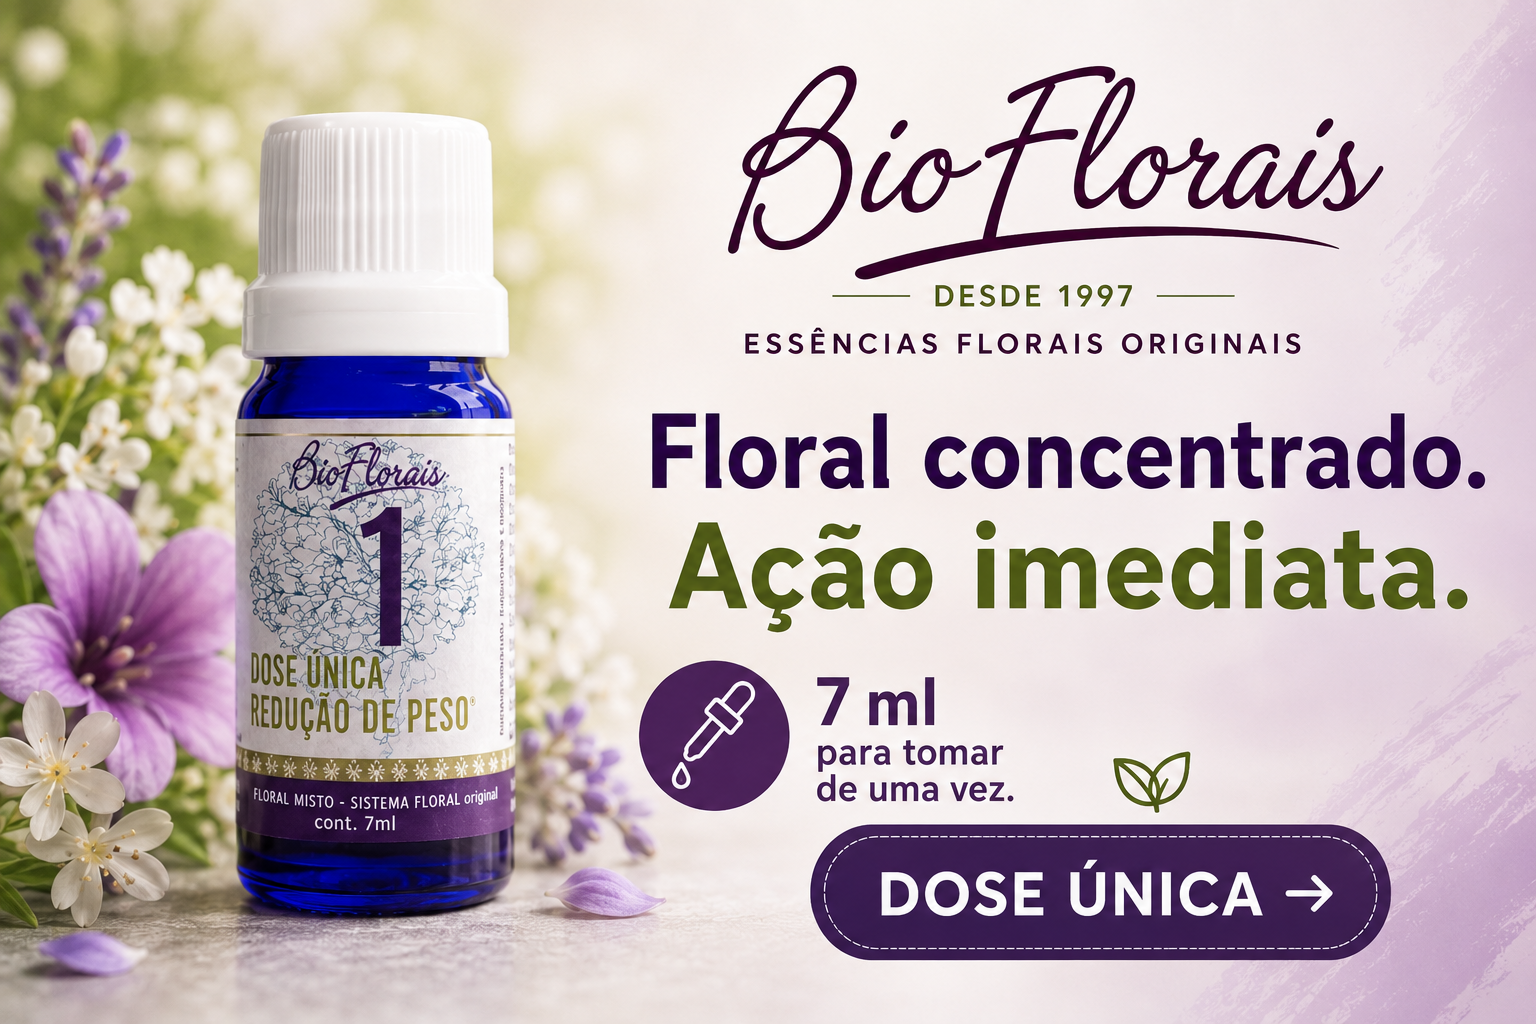
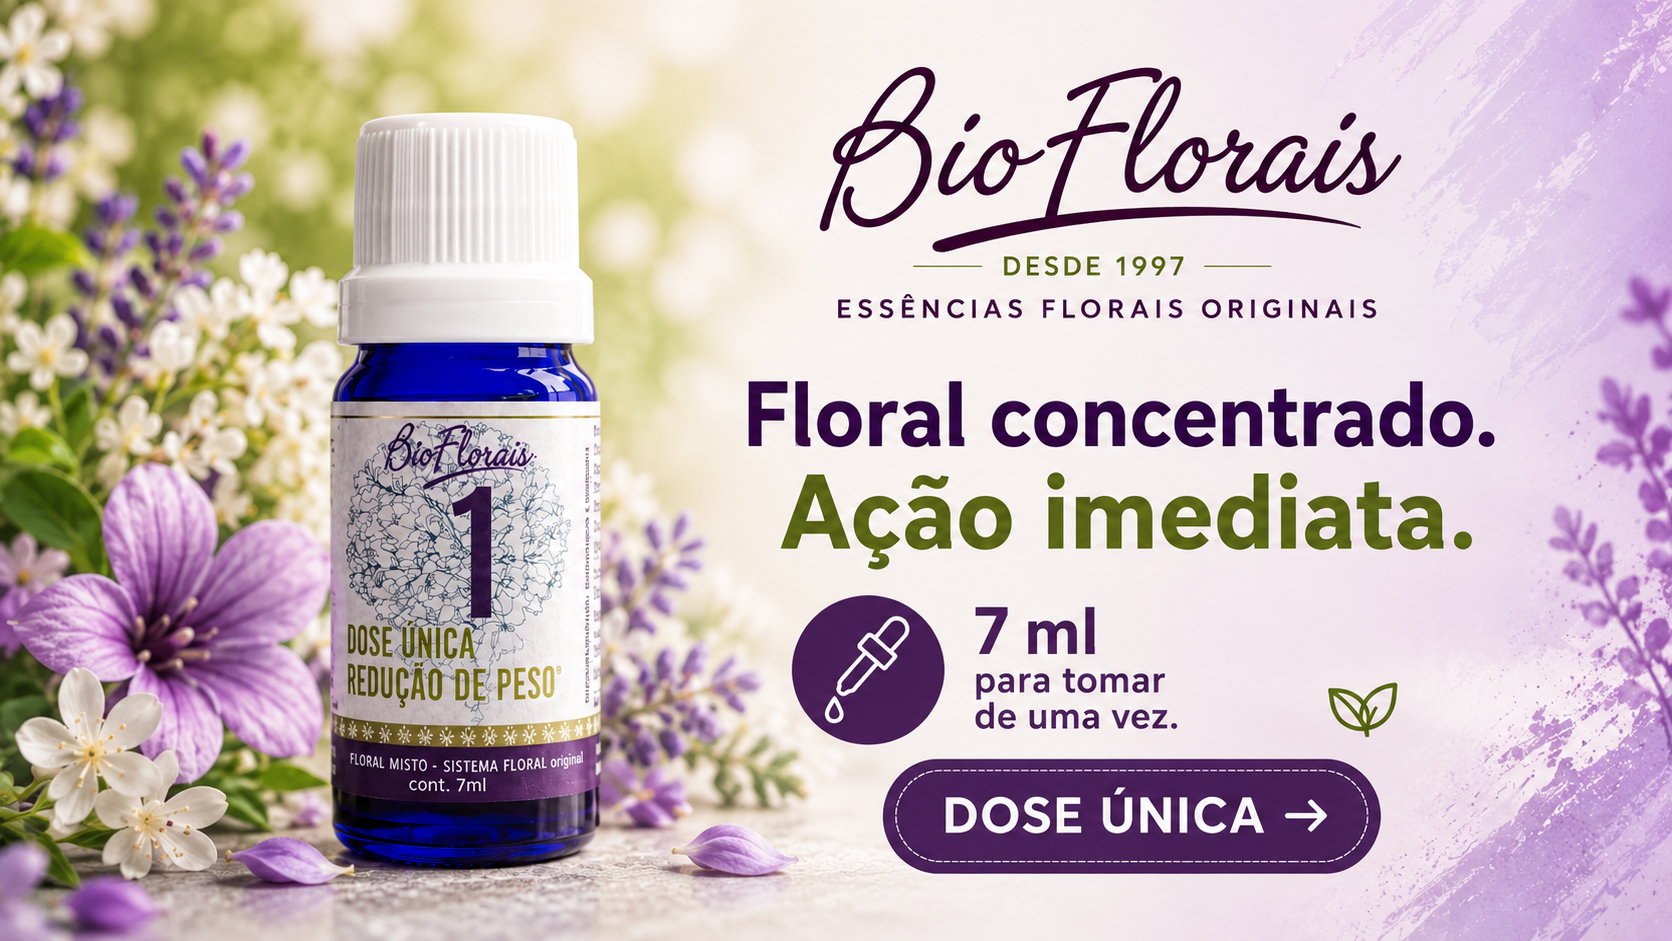
Fix Bio home card aspect ratio and artwork

diff --git a/src/app/page.tsx b/src/app/page.tsx
@@ -62,7 +62,7 @@ function VisualLineCard({
         large ? "min-h-0" : ""
       }`}
     >
-      <div className="relative aspect-[3/2] w-full overflow-hidden bg-[#fffaf6]">
+      <div className="relative aspect-[16/9] w-full overflow-hidden bg-[#fffaf6]">
         <Image
           src={image}
           alt={`Bio Florais ${name}`}
